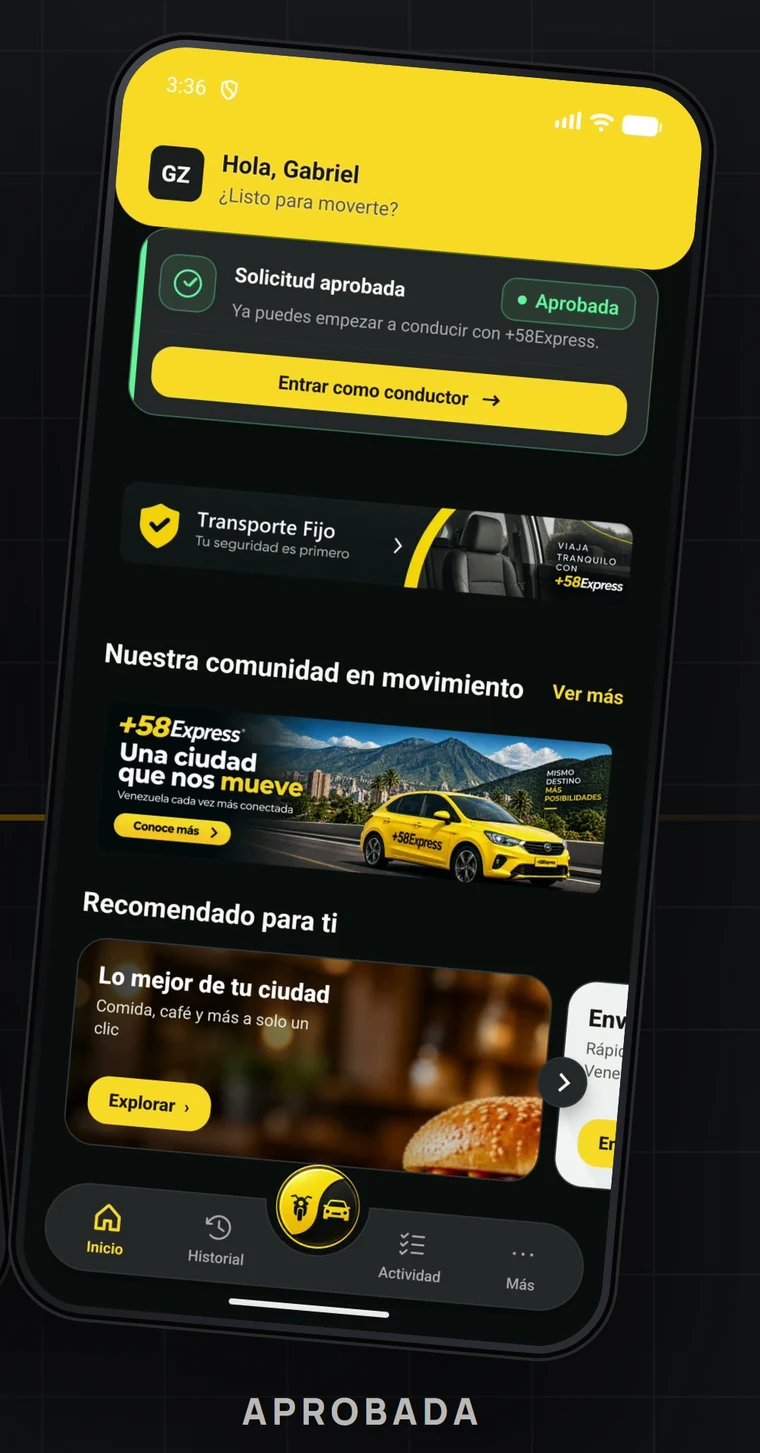
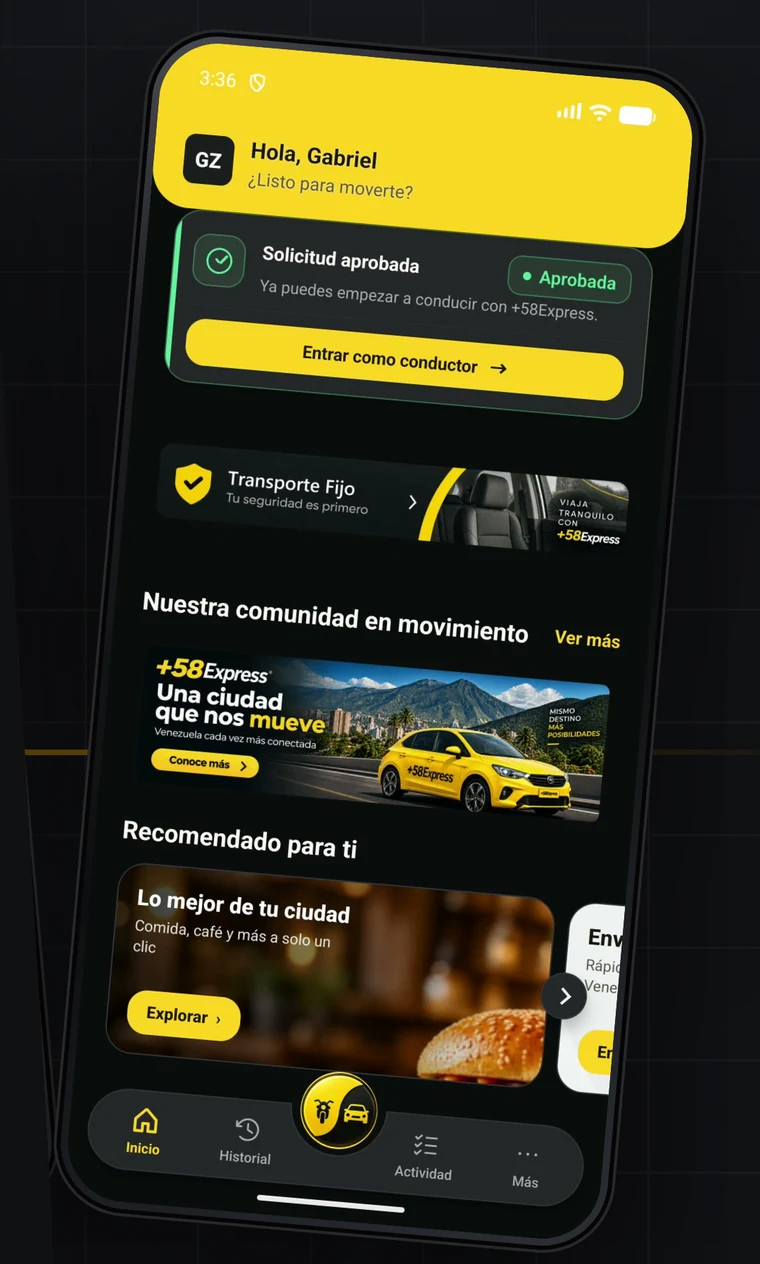
fix(web): el teléfono aprobado, centrado y sin el borde del otro

diff --git a/web/components/phone/PiezaCampana.tsx b/web/components/phone/PiezaCampana.tsx
@@ -94,7 +94,7 @@ const PiezaCampana = forwardRef<HTMLDivElement, Props>(function PiezaCampana(
                 src={pieza.src}
                 alt={pieza.alt}
                 fill
-                quality={90}
+                quality={92}
                 sizes={`${Math.round(width * 1.25)}px`}
                 className="object-cover object-center"
                 priority={priority && pieza.id === visible}

diff --git a/web/components/home/DosLados.tsx b/web/components/home/DosLados.tsx
@@ -162,7 +162,7 @@ export default function DosLados() {
               entradilla="Te postulas desde la app y, cuando te aprueban, empiezas a conducir."
               puntos={CONDUCTOR}
               pantalla="conductor-aprobado"
-              ancho={266}
+              ancho={305}
               acento
               href="/conductores"
               enlace="Todo para quien conduce"

diff --git a/web/lib/content.ts b/web/lib/content.ts
@@ -200,7 +200,7 @@ export const PIEZAS = [
     id: "conductor-aprobado",
     src: "/campana/conductor-aprobado.webp",
     width: 760,
-    height: 1453,
+    height: 1264,
     alt: "Inicio del conductor con la solicitud aprobada y el botón para entrar como conductor.",
   },
 ] as const satisfies readonly {
